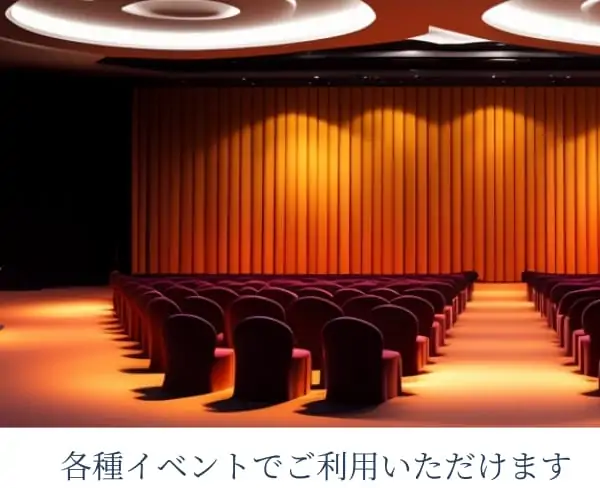
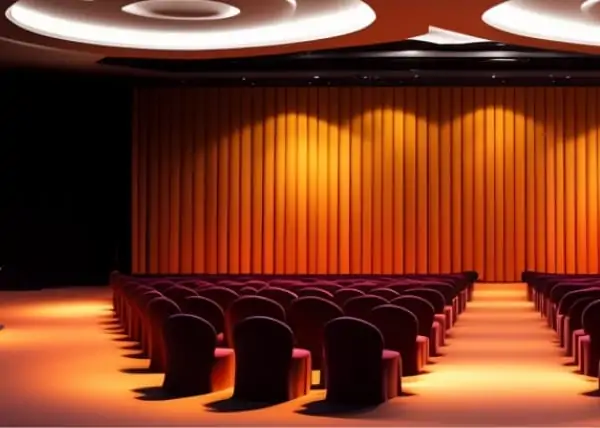
meeting completed

diff --git a/css/styles.css b/css/styles.css
@@ -1681,6 +1681,86 @@ button {
   margin-right: 10px;
 }
 
+.p-meeting {
+  margin-top: 30px;
+  text-align: center;
+}
+
+.p-meeting__content {
+  margin-top: 5px;
+  width: 100%;
+}
+
+.p-meeting__imagebox {
+  width: 100%;
+  aspect-ratio: 375/222;
+  background-image: -webkit-gradient(linear, left top, left bottom, from(transparent), color-stop(18.9%, #cfab6e));
+  background-image: linear-gradient(transparent 0% 18.9%, #cfab6e 18.9% 100%);
+}
+
+.p-meeting__image {
+  width: 300px;
+  height: auto;
+  margin-inline: auto;
+  position: relative;
+  overflow: hidden;
+}
+.p-meeting__image::before, .p-meeting__image::after {
+  content: "";
+  display: block;
+  position: absolute;
+  margin: auto;
+  top: 0;
+  left: 0;
+  margin: auto;
+  -webkit-transition: 0.3s cubic-bezier(0.45, 0, 0.55, 1);
+  transition: 0.3s cubic-bezier(0.45, 0, 0.55, 1);
+  opacity: 0;
+}
+.p-meeting__image::before {
+  background-color: rgba(41, 65, 95, .6);
+  width: 100%;
+  height: 100%;
+}
+.p-meeting__image::after {
+  color: #fff;
+  content: "Read More";
+  font-size: 22px;
+  font-weight: bold;
+  display: -webkit-box;
+  display: -ms-flexbox;
+  display: flex;
+  text-align: center;
+  -webkit-box-pack: center;
+      -ms-flex-pack: center;
+          justify-content: center;
+  -webkit-box-align: center;
+      -ms-flex-align: center;
+          align-items: center;
+  bottom: 0;
+  right: 0;
+}
+.p-meeting__image:hover::before, .p-meeting__image:hover::after {
+  opacity: 1;
+}
+
+.p-meeting__subtitle {
+  margin-top: 30px;
+  font-size: 20px;
+  font-style: normal;
+  font-weight: 400;
+  line-height: normal;
+}
+
+.p-meeting__contentTitle {
+  margin-top: 3px;
+}
+
+.p-meeting__button {
+  margin-top: 30px;
+  margin-inline: auto;
+}
+
 .p-news {
   margin-top: 30px;
   text-align: center;

diff --git a/src/sass/object/project/_meeting.scss b/src/sass/object/project/_meeting.scss
@@ -1,0 +1,84 @@
+@use "global" as *;
+
+.p-meeting {
+  margin-top: 30px;
+  text-align: center;
+}
+
+.p-meeting__content {
+  margin-top: 5px;
+  width: 100%;
+  
+}
+
+.p-meeting__imagebox {
+  width: 100%;
+  aspect-ratio: 375 / 222;
+  background-image: linear-gradient(transparent 0% 18.9%, $gold 18.9% 100%);
+}
+
+.p-meeting__image {
+  width: 300px;
+  height: auto;
+  margin-inline: auto;
+  position: relative;
+  overflow: hidden;
+  &::before,
+  &::after {
+    content: "";
+    display: block;
+    position: absolute;
+    margin: auto;
+    top: 0;
+    left: 0;
+    margin: auto;
+    transition: .3s cubic-bezier(0.45, 0, 0.55, 1);
+    opacity: 0;
+  }
+  &::before {
+    background-color: rgba($color: $blue, $alpha: 0.6);
+    width: 100%;
+    height: 100%;
+  }
+  &::after {
+    color: $white;
+    content: "Read More";
+    font-size: 22px;
+    font-weight: bold;
+    display: flex;
+    text-align: center;
+    justify-content: center;
+    align-items: center;
+    bottom: 0;
+    right: 0;
+  }
+  &:hover::before,
+  &:hover::after {
+    opacity: 1;
+  }
+}
+.p-meeting__subtitle {
+  margin-top: 30px;
+  font-size: 20px;
+  font-style: normal;
+  font-weight: 400;
+  line-height: normal;
+}
+.p-meeting__contentTitle {
+  margin-top: 3px;
+}
+
+
+
+.p-meeting__button {
+  // display: none;
+  margin-top: 30px;
+  margin-inline: auto;
+}
+
+
+
+
+
+
+

diff --git a/index.html b/index.html
@@ -597,9 +597,36 @@
   </div>
 </section>
 
+<section class="p-meeting">
+  <h2 class="p-meeting__title c-h2__title">Event/Meeting<span class="c-h2__subtitle">宴会場</span></h2>
+  <h3 class="p-meeting__subtitle">大宴会場</h3>
+  <div class="p-meeting__content">
+    <div class="p-meeting__imagebox">
+      <picture class="p-meeting__image">
+        <source>
+        <img src="images/Meeting_dai-sp2x.webp" alt="大宴会場">
+      </picture>
+    </div>
+    <p class="p-meeting__contentTitle">大規模なレセプション等にご利用いただけます</p>
+  </div>
+  <h3 class="p-meeting__subtitle">中宴会場</h3>
+  <div class="p-meeting__content">
+    <div class="p-meeting__imagebox">
+      <picture class="p-meeting__image">
+        <source>
+        <img src="images/Meeting_chu-sp2x.webp" alt="中宴会場">
+      </picture>
+    </div>
+    <p class="p-meeting__contentTitle">各種イベントでご利用いただけます</p>
+    <div class="p-meeting__button c-button">
+      <a href="#" class="c-button__tag">View More</a>
+    </div>
+  </div>
+</section>
 
-
-
+<footer>
+  
+</footer>
 
 
   <div class="inner-sp u-mt50"></div>
